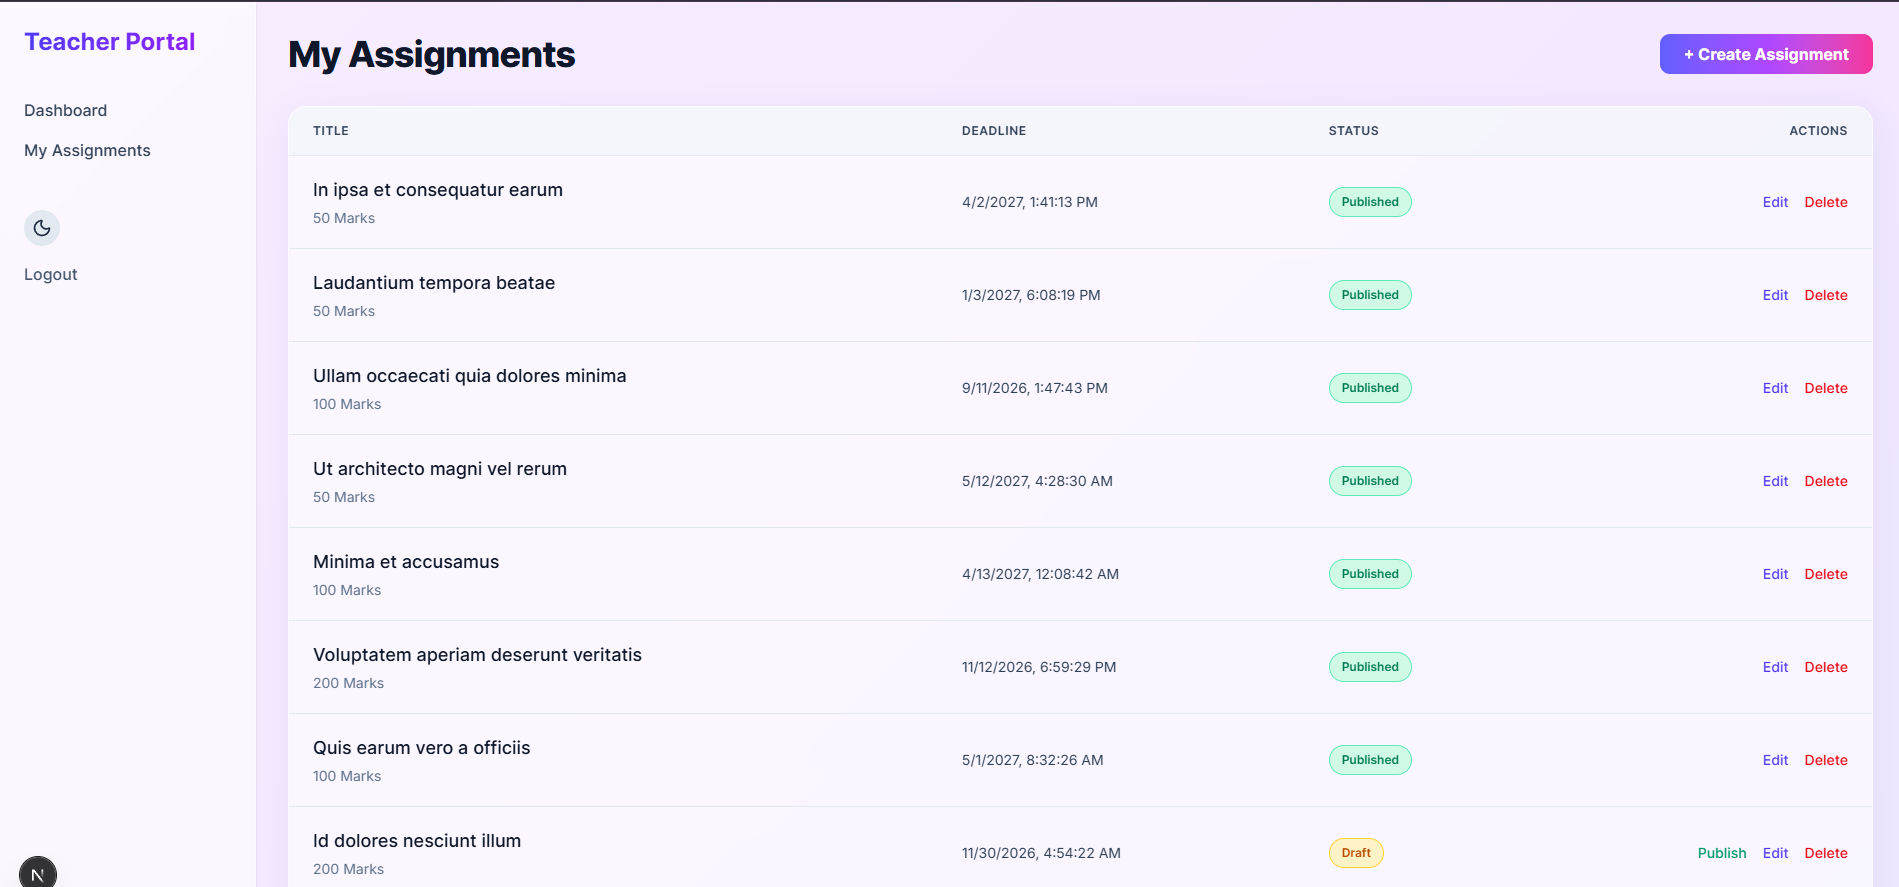
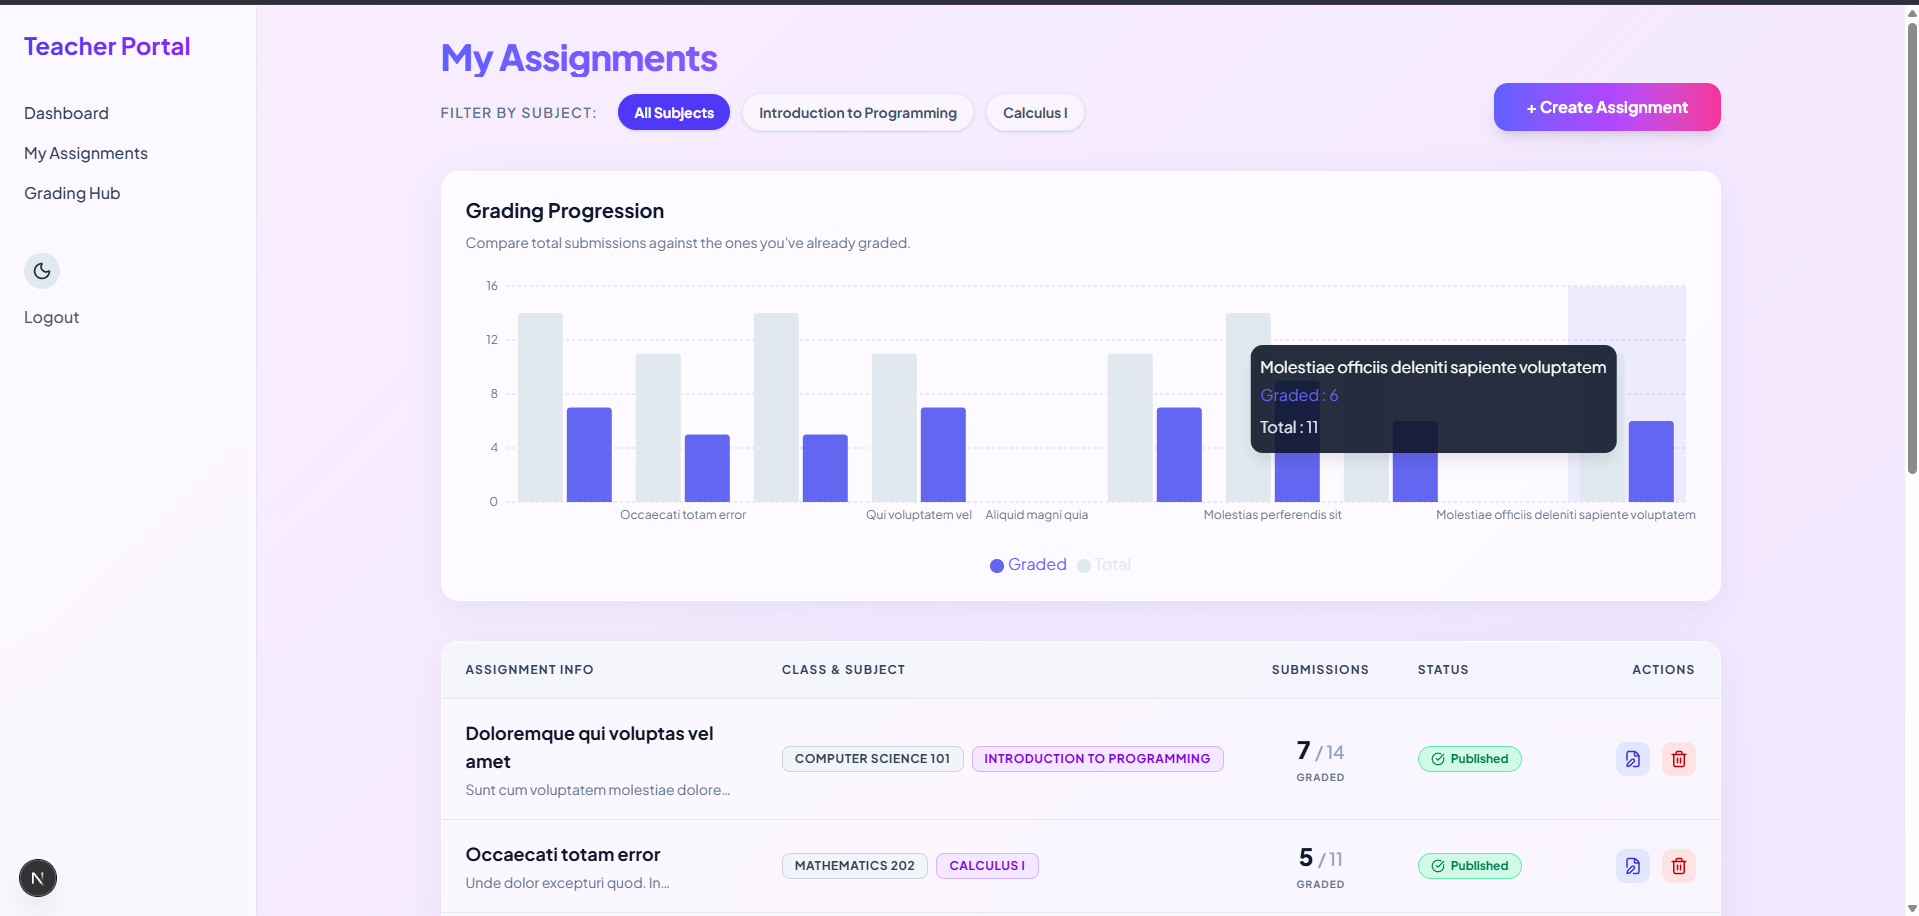
update image

diff --git a/lib/constants.ts b/lib/constants.ts
@@ -394,27 +394,54 @@ export const PROJECTS: Project[] = [
   {
     title: "Assignment & Submission Management System",
     images: [
-      "/Assignment & Submission Management System Screenshots/Log in.png",
-      "/Assignment & Submission Management System Screenshots/Admin Dashboard.png",
+      "/Assignment & Submission Management System Screenshots/Admin (5).png",
+      "/Assignment & Submission Management System Screenshots/Admin (6).png",
       "/Assignment & Submission Management System Screenshots/Admin (8).png",
+      "/Assignment & Submission Management System Screenshots/Admin (CLASS & Subjects) (1).png",
+      "/Assignment & Submission Management System Screenshots/Admin (CLASS & Subjects) (2).png",
+      "/Assignment & Submission Management System Screenshots/Admin (Dashboard) (1).png",
+      "/Assignment & Submission Management System Screenshots/Admin (Dashboard) (2).png",
+      "/Assignment & Submission Management System Screenshots/Admin (Submission analytic).png",
+      "/Assignment & Submission Management System Screenshots/Admin (Users) (1).png",
+      "/Assignment & Submission Management System Screenshots/Admin (Users) (2).png",
       "/Assignment & Submission Management System Screenshots/Admin Assignment Oversight.png",
       "/Assignment & Submission Management System Screenshots/Admin Class Management.png",
       "/Assignment & Submission Management System Screenshots/Admin Create Subject.png",
+      "/Assignment & Submission Management System Screenshots/Admin Dashboard.png",
       "/Assignment & Submission Management System Screenshots/Admin Subj Management.png",
       "/Assignment & Submission Management System Screenshots/Admin Submission Oversight.png",
       "/Assignment & Submission Management System Screenshots/Admin Users.png",
       "/Assignment & Submission Management System Screenshots/Admin assign Student to Class.png",
+      "/Assignment & Submission Management System Screenshots/Log in.png",
+      "/Assignment & Submission Management System Screenshots/Student (4).png",
+      "/Assignment & Submission Management System Screenshots/Student (Dashboard) (1).png",
+      "/Assignment & Submission Management System Screenshots/Student (Dashboard) (2).png",
+      "/Assignment & Submission Management System Screenshots/Student (Dashboard) (4).png",
+      "/Assignment & Submission Management System Screenshots/Student (Dashboard).png",
+      "/Assignment & Submission Management System Screenshots/Student (Grading)  (1).png",
+      "/Assignment & Submission Management System Screenshots/Student (Grading)  (2).png",
       "/Assignment & Submission Management System Screenshots/Student Dashboard.png",
       "/Assignment & Submission Management System Screenshots/Stuudent (3).png",
       "/Assignment & Submission Management System Screenshots/Stuudent (5).png",
       "/Assignment & Submission Management System Screenshots/Stuudent (6).png",
-      "/Assignment & Submission Management System Screenshots/Submit assignment.png",
       "/Assignment & Submission Management System Screenshots/Submit assignment 2.png",
+      "/Assignment & Submission Management System Screenshots/Submit assignment.png",
+      "/Assignment & Submission Management System Screenshots/Teacher (1).png",
+      "/Assignment & Submission Management System Screenshots/Teacher (10).png",
+      "/Assignment & Submission Management System Screenshots/Teacher (11).png",
+      "/Assignment & Submission Management System Screenshots/Teacher (12).png",
       "/Assignment & Submission Management System Screenshots/Teacher (2).png",
       "/Assignment & Submission Management System Screenshots/Teacher (3).png",
       "/Assignment & Submission Management System Screenshots/Teacher (4).png",
+      "/Assignment & Submission Management System Screenshots/Teacher (5).png",
+      "/Assignment & Submission Management System Screenshots/Teacher (8).png",
+      "/Assignment & Submission Management System Screenshots/Teacher (9).png",
+      "/Assignment & Submission Management System Screenshots/Teacher (Grading).png",
+      "/Assignment & Submission Management System Screenshots/Teacher (grading2).png",
       "/Assignment & Submission Management System Screenshots/Teacher Creating Assignment.png",
-      "/Assignment & Submission Management System Screenshots/Teacher Submission View & Grading.png"
+      "/Assignment & Submission Management System Screenshots/Teacher Submission View & Grading.png",
+      "/Assignment & Submission Management System Screenshots/admin (11).png",
+      "/Assignment & Submission Management System Screenshots/admin (12).png"
     ],
     description: "A comprehensive platform for schools to manage classes, assignments, and submissions with distinct portals for Admins, Teachers, and Students.",
     techStack: ["C#", "Next.js", "React", "Tailwind CSS", "ASP.NET Core", "CQRS", "PostgreSQL", "Docker"],
@@ -423,7 +450,7 @@ export const PROJECTS: Project[] = [
     liveUrl: null,
     featured: true,
     wide: false,
-    image: "/Assignment & Submission Management System Screenshots/Admin Dashboard.png",
+    image: "/Assignment & Submission Management System Screenshots/Admin (Dashboard) (1).png",
     category: "Web Development",
     status: "active",
     tags: ["Education", "Management System"],
